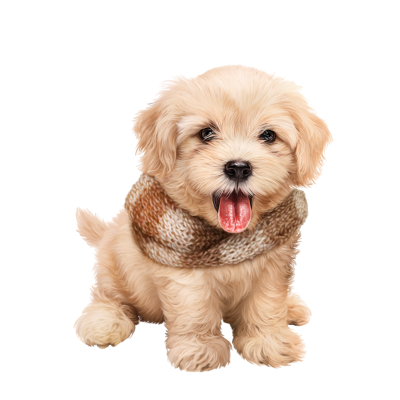
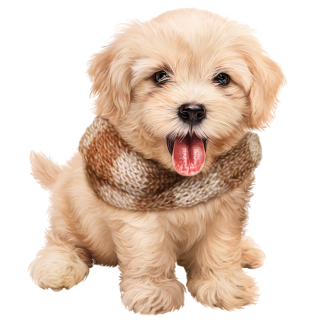
Changed screenshots to a demo GIF

diff --git a/puppy/Puppy.java b/puppy/Puppy.java
@@ -18,7 +18,7 @@ public class Puppy {
 
 	static JFrame frame;
 	static JLabel label;
-	static ImageIcon icon = new ImageIcon(new ImageIcon("puppy.png").getImage().getScaledInstance(300, 300, Image.SCALE_DEFAULT));
+	static ImageIcon icon = new ImageIcon("puppy.png");
 	static String name = "Puppy";
 
 	public static void main(String[] args) {
@@ -27,6 +27,7 @@ public class Puppy {
 		frame.setDefaultCloseOperation(JFrame.EXIT_ON_CLOSE);
 		frame.getContentPane().setBackground(Color.magenta);
 		frame.setLayout(new BorderLayout(10, 10));
+		frame.setIconImage(icon.getImage());
 
 		addLabel();
 		addPanels();
@@ -82,8 +83,7 @@ public class Puppy {
 	static void addLabel() {
 		label = new JLabel();
 		label.setText("This is puppy");
-		label.setIcon(icon);
-		label.setIconTextGap(-20);
+		label.setIcon(new ImageIcon(icon.getImage().getScaledInstance(300, 300, Image.SCALE_DEFAULT)));
 		label.setVerticalTextPosition(JLabel.TOP);
 		label.setHorizontalTextPosition(JLabel.CENTER);
 		label.setVerticalAlignment(JLabel.CENTER);

diff --git a/puppy/README.md b/puppy/README.md
@@ -5,8 +5,5 @@
 * It can bark.
 * It can be renamed.
 
-## Screenshots
-![main](ss/main.png)
-![bark](ss/bark.png)
-![rename](ss/rename.png)
-![renamed](ss/renamed.png)
+## Demo
+![demo](demo.gif)
